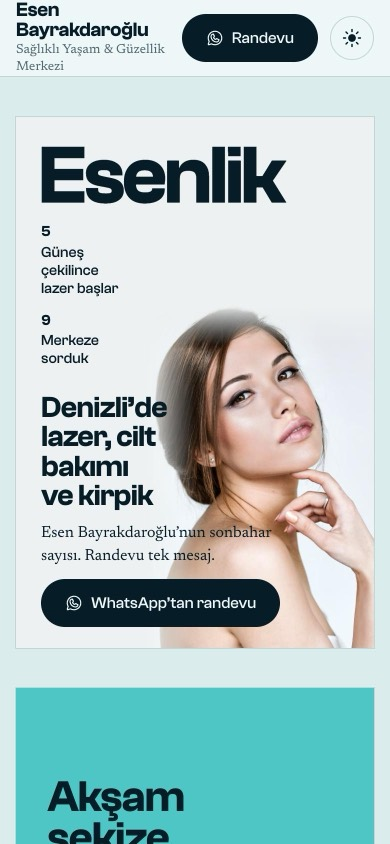
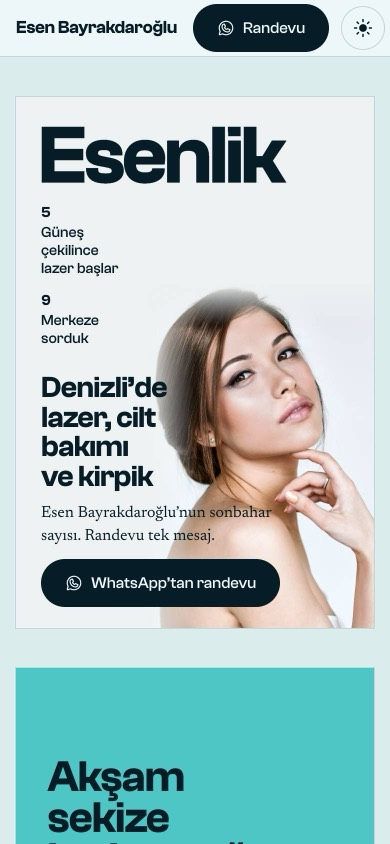
Dergi 3 telefon: ince üst çubuk, lazer fotoğrafı ve yazısı tek sayfa

diff --git a/yonler/dergi-3/index.html b/yonler/dergi-3/index.html
@@ -284,6 +284,10 @@ address { font-style: normal; font-size: max(1rem, 3.1cqw); color: var(--color-i
 .kunye { max-width: 640px; margin: var(--space-2xl) auto 0; padding-inline: var(--space-md); color: var(--color-muted); font-size: var(--text-sm); }
 .kunye a { display: inline-flex; align-items: center; min-height: 44px; }
 
+@media (max-width: 40rem) { .marka { font-size: 1.125rem; white-space: nowrap; } .marka span { display: none; } .ust .container { min-height: 56px; } }
+html:not(.kitap-acik) #sayfa-4 { min-height: 0; aspect-ratio: 4 / 3; }
+html:not(.kitap-acik) #sayfa-4 .folyo { display: none; }
+html:not(.kitap-acik) #sayfa-5 { margin-top: calc(-1 * var(--space-xl)); min-height: 0; }
 .cubuk { position: fixed; inset: auto 0 0 0; z-index: var(--z-sticky); display: flex; gap: var(--space-xs); padding: var(--space-xs) var(--space-md) calc(var(--space-xs) + env(safe-area-inset-bottom)); background: var(--color-paper); border-top: 1px solid var(--color-rule); transition: transform var(--dur-short) var(--ease-out); }
 .cubuk .btn { flex: 1; }
 .cubuk .btn--cizgi { flex: none; }
